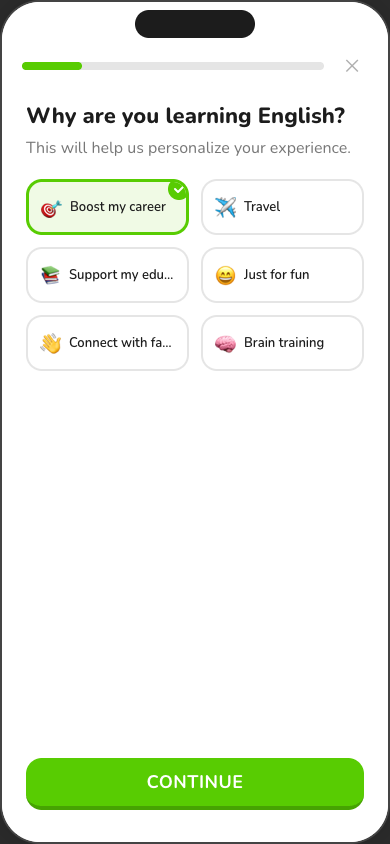
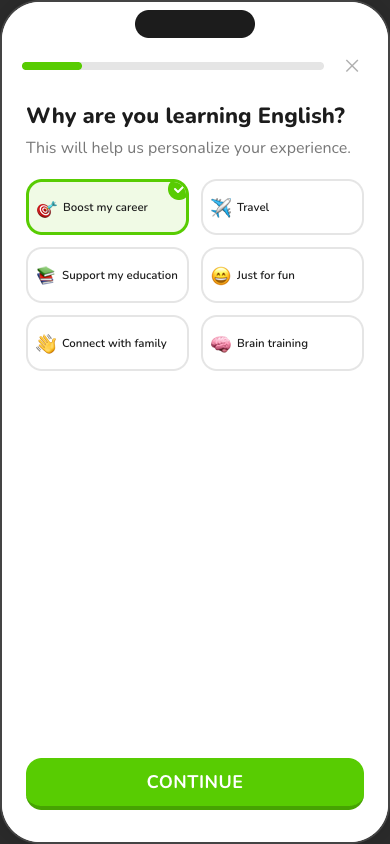
feat: dynamic mission paths + lock Screen 1
- Screen 1 locked to "Boost my career" (no re-selection)
- Removed Travel from Screen 2 (career-only missions)
- Screens 4-6 dynamically update based on Screen 2 mission selection
- Screen 4 day count reflects Screen 3 date picker
- 3 complete mission paths: Job Interview, Workplace Conversation, Corporate Communication
- Updated screenshots

diff --git a/mission_mode_prototype.html b/mission_mode_prototype.html
@@ -174,12 +174,12 @@ body{background:#2D2D2D;display:flex;align-items:center;justify-content:center;f
     <div class="ttl">Why are you learning English?</div>
     <div class="sub">This will help us personalize your experience.</div>
     <div class="g2" id="g1">
-      <div class="card sel" data-g="g1"><span class="chk"><svg viewBox="0 0 12 12"><path d="M2 6l3 3 5-5" stroke="#FFF" stroke-width="2" fill="none" stroke-linecap="round" stroke-linejoin="round"/></svg></span><span class="emo">🎯</span><span class="lbl">Boost my career</span></div>
-      <div class="card" data-g="g1"><span class="chk"><svg viewBox="0 0 12 12"><path d="M2 6l3 3 5-5" stroke="#FFF" stroke-width="2" fill="none" stroke-linecap="round" stroke-linejoin="round"/></svg></span><span class="emo">✈</span><span class="lbl">Travel</span></div>
-      <div class="card" data-g="g1"><span class="chk"><svg viewBox="0 0 12 12"><path d="M2 6l3 3 5-5" stroke="#FFF" stroke-width="2" fill="none" stroke-linecap="round" stroke-linejoin="round"/></svg></span><span class="emo">📚</span><span class="lbl">Support my education</span></div>
-      <div class="card" data-g="g1"><span class="chk"><svg viewBox="0 0 12 12"><path d="M2 6l3 3 5-5" stroke="#FFF" stroke-width="2" fill="none" stroke-linecap="round" stroke-linejoin="round"/></svg></span><span class="emo">😄</span><span class="lbl">Just for fun</span></div>
-      <div class="card" data-g="g1"><span class="chk"><svg viewBox="0 0 12 12"><path d="M2 6l3 3 5-5" stroke="#FFF" stroke-width="2" fill="none" stroke-linecap="round" stroke-linejoin="round"/></svg></span><span class="emo">👋</span><span class="lbl">Connect with family</span></div>
-      <div class="card" data-g="g1"><span class="chk"><svg viewBox="0 0 12 12"><path d="M2 6l3 3 5-5" stroke="#FFF" stroke-width="2" fill="none" stroke-linecap="round" stroke-linejoin="round"/></svg></span><span class="emo">🧠</span><span class="lbl">Brain training</span></div>
+      <div class="card sel" data-g="g1locked"><span class="chk"><svg viewBox="0 0 12 12"><path d="M2 6l3 3 5-5" stroke="#FFF" stroke-width="2" fill="none" stroke-linecap="round" stroke-linejoin="round"/></svg></span><span class="emo">🎯</span><span class="lbl">Boost my career</span></div>
+      <div class="card" data-g="g1locked"><span class="chk"><svg viewBox="0 0 12 12"><path d="M2 6l3 3 5-5" stroke="#FFF" stroke-width="2" fill="none" stroke-linecap="round" stroke-linejoin="round"/></svg></span><span class="emo">✈</span><span class="lbl">Travel</span></div>
+      <div class="card" data-g="g1locked"><span class="chk"><svg viewBox="0 0 12 12"><path d="M2 6l3 3 5-5" stroke="#FFF" stroke-width="2" fill="none" stroke-linecap="round" stroke-linejoin="round"/></svg></span><span class="emo">📚</span><span class="lbl">Support my education</span></div>
+      <div class="card" data-g="g1locked"><span class="chk"><svg viewBox="0 0 12 12"><path d="M2 6l3 3 5-5" stroke="#FFF" stroke-width="2" fill="none" stroke-linecap="round" stroke-linejoin="round"/></svg></span><span class="emo">😄</span><span class="lbl">Just for fun</span></div>
+      <div class="card" data-g="g1locked"><span class="chk"><svg viewBox="0 0 12 12"><path d="M2 6l3 3 5-5" stroke="#FFF" stroke-width="2" fill="none" stroke-linecap="round" stroke-linejoin="round"/></svg></span><span class="emo">👋</span><span class="lbl">Connect with family</span></div>
+      <div class="card" data-g="g1locked"><span class="chk"><svg viewBox="0 0 12 12"><path d="M2 6l3 3 5-5" stroke="#FFF" stroke-width="2" fill="none" stroke-linecap="round" stroke-linejoin="round"/></svg></span><span class="emo">🧠</span><span class="lbl">Brain training</span></div>
     </div>
   </div>
   <div class="barea"><button class="btn" onclick="nav(2)">CONTINUE</button></div>
@@ -200,7 +200,6 @@ body{background:#2D2D2D;display:flex;align-items:center;justify-content:center;f
       <div class="card" data-g="g2" data-v="interview"><span class="chk"><svg viewBox="0 0 12 12"><path d="M2 6l3 3 5-5" stroke="#FFF" stroke-width="2" fill="none" stroke-linecap="round" stroke-linejoin="round"/></svg></span><span class="cico">💼</span><div class="ctw"><div class="ctt">Job Interview</div><div class="ctd">Build speaking confidence and professional English</div></div></div>
       <div class="card" data-g="g2" data-v="workplace"><span class="chk"><svg viewBox="0 0 12 12"><path d="M2 6l3 3 5-5" stroke="#FFF" stroke-width="2" fill="none" stroke-linecap="round" stroke-linejoin="round"/></svg></span><span class="cico">💬</span><div class="ctw"><div class="ctt">Workplace Conversation</div><div class="ctd">Speak confidently in meetings and client calls</div></div></div>
       <div class="card" data-g="g2" data-v="corporate"><span class="chk"><svg viewBox="0 0 12 12"><path d="M2 6l3 3 5-5" stroke="#FFF" stroke-width="2" fill="none" stroke-linecap="round" stroke-linejoin="round"/></svg></span><span class="cico">✉</span><div class="ctw"><div class="ctt">Corporate Communication</div><div class="ctd">Emails, meetings, and professional writing</div></div></div>
-      <div class="card" data-g="g2" data-v="travel"><span class="chk"><svg viewBox="0 0 12 12"><path d="M2 6l3 3 5-5" stroke="#FFF" stroke-width="2" fill="none" stroke-linecap="round" stroke-linejoin="round"/></svg></span><span class="cico">✈</span><div class="ctw"><div class="ctt">Travel</div><div class="ctd">Navigate new places with confidence</div></div></div>
     </div>
   </div>
   <div class="barea"><button class="btn off" id="s2btn" onclick="s2go()">CONTINUE</button></div>
@@ -231,23 +230,23 @@ body{background:#2D2D2D;display:flex;align-items:center;justify-content:center;f
 <div class="scr s4" id="s4">
   <div class="sbar"><span>9:41</span><span style="font-size:12px;font-weight:400">🔋</span></div>
   <div class="mhero">
-    <div class="mhl">JOB INTERVIEW MISSION</div>
-    <div class="mhd">21 DAYS</div>
+    <div class="mhl" id="d4label">JOB INTERVIEW MISSION</div>
+    <div class="mhd" id="d4days">21 DAYS</div>
     <div class="mhs">Until your mission deadline</div>
     <div class="mhp"><div class="mhpf"></div></div>
     <div class="mhpc">4% mission-ready</div>
   </div>
   <div class="slbl">TODAY'S FOCUS</div>
   <div class="fcard" onclick="nav(5)">
-    <span class="fico">🎙</span>
-    <div class="ftxt"><div class="fttl">Speaking Confidence</div><div class="fdsc">Introduce yourself clearly and confidently</div><div class="fmet">3 exercises · 12 min</div></div>
+    <span class="fico" id="d4fIcon">🎙</span>
+    <div class="ftxt"><div class="fttl" id="d4fTitle">Speaking Confidence</div><div class="fdsc" id="d4fDesc">Introduce yourself clearly and confidently</div><div class="fmet">3 exercises · 12 min</div></div>
     <button class="fstart" onclick="event.stopPropagation();nav(5)">START</button>
   </div>
   <div class="slbl">YOUR MISSION PATH</div>
-  <div class="equeue">
-    <div class="erow"><div class="edot" style="background:#1CB0F6"></div><span style="color:#1C1C1C;font-weight:600">🔵 Speaking: Tell Me About Yourself</span></div>
-    <div class="erow"><div class="edot" style="background:#AFAFAF"></div><span style="color:#777">📝 Vocabulary: Interview Words</span></div>
-    <div class="erow" style="border-bottom:none"><div class="edot" style="background:#E5E5E5"></div><span style="color:#CCC">🔒 Listening: Understand the Question</span></div>
+  <div class="equeue" id="d4queue">
+    <div class="erow"><div class="edot" style="background:#1CB0F6"></div><span style="color:#1C1C1C;font-weight:600" id="d4e1">🔵 Speaking: Tell Me About Yourself</span></div>
+    <div class="erow"><div class="edot" style="background:#AFAFAF"></div><span style="color:#777" id="d4e2">📝 Vocabulary: Interview Words</span></div>
+    <div class="erow" style="border-bottom:none"><div class="edot" style="background:#E5E5E5"></div><span style="color:#CCC" id="d4e3">🔒 Listening: Understand the Question</span></div>
   </div>
   <div class="bnav">
     <div class="nit act"><span class="ni">🏠</span>Home</div>
@@ -268,8 +267,8 @@ body{background:#2D2D2D;display:flex;align-items:center;justify-content:center;f
   </div>
   <div class="cnt" style="padding-top:4px">
     <div class="etlbl">SENTENCE ASSEMBLY</div>
-    <div class="ettl">How would you answer this interview question?</div>
-    <div class="icard"><div class="icl">💼 <em>Interviewer asks:</em></div><div class="icq">"Tell me about yourself."</div></div>
+    <div class="ettl" id="d5title">How would you answer this interview question?</div>
+    <div class="icard"><div class="icl" id="d5prompt">💼 <em>Interviewer asks:</em></div><div class="icq" id="d5question">"Tell me about yourself."</div></div>
     <div class="aarea" id="aa">
       <span class="wc">I</span><span class="wc">am</span><span class="wc">currently</span><span class="wc">working</span><span class="wc">as</span><span class="wc">a</span><span class="wc">manager</span><span class="wc">where</span><span class="wc">I</span><span class="wc">lead</span><span class="wc">a</span><span class="wc">team</span>
     </div>
@@ -301,11 +300,11 @@ body{background:#2D2D2D;display:flex;align-items:center;justify-content:center;f
       <svg viewBox="0 0 80 80"><circle class="rbg" cx="40" cy="40" r="36"/><circle class="rfill" id="rf" cx="40" cy="40" r="36"/></svg>
       <div class="rlbl">4%</div>
     </div>
-    <div class="strow"><span>🎙 3 speaking</span><span>⏱ 12 min</span><span>🔥 1 day streak</span></div>
+    <div class="strow"><span id="d6stat">🎙 3 speaking</span><span>⏱ 12 min</span><span>🔥 1 day streak</span></div>
   </div>
   <div class="tcard">
     <div class="tclbl">UP NEXT AFTER YOUR MISSION</div>
-    <div class="tccnt"><span class="tcico">🤝</span><div class="tctxt"><div class="tcttl">Meetings & Presentations</div><div class="tcdsc">Speak confidently in workplace meetings</div></div><span class="lpill">LOCKED</span></div>
+    <div class="tccnt"><span class="tcico" id="d6tIcon">🤝</span><div class="tctxt"><div class="tcttl" id="d6tTitle">Meetings & Presentations</div><div class="tcdsc" id="d6tDesc">Speak confidently in workplace meetings</div></div><span class="lpill">LOCKED</span></div>
   </div>
   <div class="barea"><button class="btn" onclick="showEnd()">CONTINUE TOMORROW</button></div>
 </div>
@@ -327,6 +326,66 @@ body{background:#2D2D2D;display:flex;align-items:center;justify-content:center;f
 <script>
 let cur = 1, s2sel = null, done = false, busy = false, ftm = null, days = 21;
 const SCREENS = {1:'s1',2:'s2',3:'s3',4:'s4',5:'s5',6:'s6'};
+
+const MISSIONS = {
+  interview: {
+    label: 'JOB INTERVIEW MISSION',
+    focusIcon: '🎙', focusTitle: 'Speaking Confidence', focusDesc: 'Introduce yourself clearly and confidently',
+    e1: '🔵 Speaking: Tell Me About Yourself', e2: '📝 Vocabulary: Interview Words', e3: '🔒 Listening: Understand the Question',
+    exTitle: 'How would you answer this interview question?',
+    promptIcon: '💼', promptLabel: 'Interviewer asks:', promptQ: '"Tell me about yourself."',
+    words: ['I','am','currently','working','as','a','manager','where','I','lead','a','team'],
+    stat: '🎙 3 speaking', tIcon: '🤝', tTitle: 'Meetings & Presentations', tDesc: 'Speak confidently in workplace meetings'
+  },
+  workplace: {
+    label: 'WORKPLACE CONVERSATION MISSION',
+    focusIcon: '🎙', focusTitle: 'Meeting Confidence', focusDesc: 'Join and contribute to workplace discussions',
+    e1: '🔵 Speaking: Join a Meeting', e2: '📝 Vocabulary: Meeting Phrases', e3: '🔒 Listening: Follow a Discussion',
+    exTitle: 'How would you respond in this meeting?',
+    promptIcon: '💬', promptLabel: 'Colleague asks:', promptQ: '"Can you walk us through the project?"',
+    words: ['I','would','like','to','walk','you','through','our','progress','on','this','project'],
+    stat: '🎙 3 speaking', tIcon: '📧', tTitle: 'Email & Reports', tDesc: 'Write clear professional communications'
+  },
+  corporate: {
+    label: 'CORPORATE COMMUNICATION MISSION',
+    focusIcon: '✍', focusTitle: 'Writing Clarity', focusDesc: 'Draft clear professional messages',
+    e1: '🔵 Writing: Draft a Status Update', e2: '📝 Vocabulary: Business Email Words', e3: '🔒 Reading: Understand a Memo',
+    exTitle: 'How would you write this message?',
+    promptIcon: '✉', promptLabel: 'Manager asks:', promptQ: '"Send a project update to the team."',
+    words: ['I','am','writing','to','provide','a','brief','update','on','this','project'],
+    stat: '✍ 3 writing', tIcon: '🎤', tTitle: 'Client Presentations', tDesc: 'Present ideas confidently to clients'
+  }
+};
+
+function updScreens() {
+  const m = MISSIONS[s2sel] || MISSIONS.interview;
+  // S4
+  document.getElementById('d4label').textContent = m.label;
+  document.getElementById('d4days').textContent = days + ' DAYS';
+  document.getElementById('d4fIcon').textContent = m.focusIcon;
+  document.getElementById('d4fTitle').textContent = m.focusTitle;
+  document.getElementById('d4fDesc').textContent = m.focusDesc;
+  document.getElementById('d4e1').textContent = m.e1;
+  document.getElementById('d4e2').textContent = m.e2;
+  document.getElementById('d4e3').textContent = m.e3;
+  // S5
+  document.getElementById('d5title').textContent = m.exTitle;
+  document.getElementById('d5prompt').innerHTML = m.promptIcon + ' <em>' + m.promptLabel + '</em>';
+  document.getElementById('d5question').textContent = m.promptQ;
+  const aa = document.getElementById('aa');
+  const wb = document.querySelector('.wbank');
+  aa.innerHTML = m.words.map(w => '<span class="wc">' + w + '</span>').join('');
+  wb.innerHTML = m.words.map(w => '<span class="wc">' + w + '</span>').join('');
+  // Reset assembly styles
+  aa.style.background = '';
+  aa.style.borderColor = '';
+  aa.style.borderStyle = '';
+  // S6
+  document.getElementById('d6stat').textContent = m.stat;
+  document.getElementById('d6tIcon').textContent = m.tIcon;
+  document.getElementById('d6tTitle').textContent = m.tTitle;
+  document.getElementById('d6tDesc').textContent = m.tDesc;
+}
 
 function nav(to) {
   if (busy || to === cur) return;
@@ -367,6 +426,9 @@ function nav(to) {
 
   cur = to;
 
+  // Update dynamic content when entering screens 4-6
+  if (to >= 4) updScreens();
+
   // Screen 6: animate ring
   if (to === 6) {
     setTimeout(() => document.getElementById('rf').classList.add('anim'), 100);
@@ -385,7 +447,7 @@ document.addEventListener('click', function(e) {
   const c = e.target.closest('.card');
   if (!c || busy) return;
   const g = c.dataset.g;
-  if (!g) return;
+  if (!g || g === 'g1locked') return; // Screen 1 locked
   const container = document.getElementById(g);
   if (!container) return;
   container.querySelectorAll('.card').forEach(x => x.classList.remove('sel'));

diff --git a/mission_mode_prototype_embed.html b/mission_mode_prototype_embed.html
@@ -174,12 +174,12 @@ body{background:#2D2D2D;display:flex;align-items:center;justify-content:center;f
     <div class="ttl">Why are you learning English?</div>
     <div class="sub">This will help us personalize your experience.</div>
     <div class="g2" id="g1">
-      <div class="card sel" data-g="g1"><span class="chk"><svg viewBox="0 0 12 12"><path d="M2 6l3 3 5-5" stroke="#FFF" stroke-width="2" fill="none" stroke-linecap="round" stroke-linejoin="round"/></svg></span><span class="emo">🎯</span><span class="lbl">Boost my career</span></div>
-      <div class="card" data-g="g1"><span class="chk"><svg viewBox="0 0 12 12"><path d="M2 6l3 3 5-5" stroke="#FFF" stroke-width="2" fill="none" stroke-linecap="round" stroke-linejoin="round"/></svg></span><span class="emo">✈</span><span class="lbl">Travel</span></div>
-      <div class="card" data-g="g1"><span class="chk"><svg viewBox="0 0 12 12"><path d="M2 6l3 3 5-5" stroke="#FFF" stroke-width="2" fill="none" stroke-linecap="round" stroke-linejoin="round"/></svg></span><span class="emo">📚</span><span class="lbl">Support my education</span></div>
-      <div class="card" data-g="g1"><span class="chk"><svg viewBox="0 0 12 12"><path d="M2 6l3 3 5-5" stroke="#FFF" stroke-width="2" fill="none" stroke-linecap="round" stroke-linejoin="round"/></svg></span><span class="emo">😄</span><span class="lbl">Just for fun</span></div>
-      <div class="card" data-g="g1"><span class="chk"><svg viewBox="0 0 12 12"><path d="M2 6l3 3 5-5" stroke="#FFF" stroke-width="2" fill="none" stroke-linecap="round" stroke-linejoin="round"/></svg></span><span class="emo">👋</span><span class="lbl">Connect with family</span></div>
-      <div class="card" data-g="g1"><span class="chk"><svg viewBox="0 0 12 12"><path d="M2 6l3 3 5-5" stroke="#FFF" stroke-width="2" fill="none" stroke-linecap="round" stroke-linejoin="round"/></svg></span><span class="emo">🧠</span><span class="lbl">Brain training</span></div>
+      <div class="card sel" data-g="g1locked"><span class="chk"><svg viewBox="0 0 12 12"><path d="M2 6l3 3 5-5" stroke="#FFF" stroke-width="2" fill="none" stroke-linecap="round" stroke-linejoin="round"/></svg></span><span class="emo">🎯</span><span class="lbl">Boost my career</span></div>
+      <div class="card" data-g="g1locked"><span class="chk"><svg viewBox="0 0 12 12"><path d="M2 6l3 3 5-5" stroke="#FFF" stroke-width="2" fill="none" stroke-linecap="round" stroke-linejoin="round"/></svg></span><span class="emo">✈</span><span class="lbl">Travel</span></div>
+      <div class="card" data-g="g1locked"><span class="chk"><svg viewBox="0 0 12 12"><path d="M2 6l3 3 5-5" stroke="#FFF" stroke-width="2" fill="none" stroke-linecap="round" stroke-linejoin="round"/></svg></span><span class="emo">📚</span><span class="lbl">Support my education</span></div>
+      <div class="card" data-g="g1locked"><span class="chk"><svg viewBox="0 0 12 12"><path d="M2 6l3 3 5-5" stroke="#FFF" stroke-width="2" fill="none" stroke-linecap="round" stroke-linejoin="round"/></svg></span><span class="emo">😄</span><span class="lbl">Just for fun</span></div>
+      <div class="card" data-g="g1locked"><span class="chk"><svg viewBox="0 0 12 12"><path d="M2 6l3 3 5-5" stroke="#FFF" stroke-width="2" fill="none" stroke-linecap="round" stroke-linejoin="round"/></svg></span><span class="emo">👋</span><span class="lbl">Connect with family</span></div>
+      <div class="card" data-g="g1locked"><span class="chk"><svg viewBox="0 0 12 12"><path d="M2 6l3 3 5-5" stroke="#FFF" stroke-width="2" fill="none" stroke-linecap="round" stroke-linejoin="round"/></svg></span><span class="emo">🧠</span><span class="lbl">Brain training</span></div>
     </div>
   </div>
   <div class="barea"><button class="btn" onclick="nav(2)">CONTINUE</button></div>
@@ -200,7 +200,6 @@ body{background:#2D2D2D;display:flex;align-items:center;justify-content:center;f
       <div class="card" data-g="g2" data-v="interview"><span class="chk"><svg viewBox="0 0 12 12"><path d="M2 6l3 3 5-5" stroke="#FFF" stroke-width="2" fill="none" stroke-linecap="round" stroke-linejoin="round"/></svg></span><span class="cico">💼</span><div class="ctw"><div class="ctt">Job Interview</div><div class="ctd">Build speaking confidence and professional English</div></div></div>
       <div class="card" data-g="g2" data-v="workplace"><span class="chk"><svg viewBox="0 0 12 12"><path d="M2 6l3 3 5-5" stroke="#FFF" stroke-width="2" fill="none" stroke-linecap="round" stroke-linejoin="round"/></svg></span><span class="cico">💬</span><div class="ctw"><div class="ctt">Workplace Conversation</div><div class="ctd">Speak confidently in meetings and client calls</div></div></div>
       <div class="card" data-g="g2" data-v="corporate"><span class="chk"><svg viewBox="0 0 12 12"><path d="M2 6l3 3 5-5" stroke="#FFF" stroke-width="2" fill="none" stroke-linecap="round" stroke-linejoin="round"/></svg></span><span class="cico">✉</span><div class="ctw"><div class="ctt">Corporate Communication</div><div class="ctd">Emails, meetings, and professional writing</div></div></div>
-      <div class="card" data-g="g2" data-v="travel"><span class="chk"><svg viewBox="0 0 12 12"><path d="M2 6l3 3 5-5" stroke="#FFF" stroke-width="2" fill="none" stroke-linecap="round" stroke-linejoin="round"/></svg></span><span class="cico">✈</span><div class="ctw"><div class="ctt">Travel</div><div class="ctd">Navigate new places with confidence</div></div></div>
     </div>
   </div>
   <div class="barea"><button class="btn off" id="s2btn" onclick="s2go()">CONTINUE</button></div>
@@ -231,23 +230,23 @@ body{background:#2D2D2D;display:flex;align-items:center;justify-content:center;f
 <div class="scr s4" id="s4">
   <div class="sbar"><span>9:41</span><span style="font-size:12px;font-weight:400">🔋</span></div>
   <div class="mhero">
-    <div class="mhl">JOB INTERVIEW MISSION</div>
-    <div class="mhd">21 DAYS</div>
+    <div class="mhl" id="d4label">JOB INTERVIEW MISSION</div>
+    <div class="mhd" id="d4days">21 DAYS</div>
     <div class="mhs">Until your mission deadline</div>
     <div class="mhp"><div class="mhpf"></div></div>
     <div class="mhpc">4% mission-ready</div>
   </div>
   <div class="slbl">TODAY'S FOCUS</div>
   <div class="fcard" onclick="nav(5)">
-    <span class="fico">🎙</span>
-    <div class="ftxt"><div class="fttl">Speaking Confidence</div><div class="fdsc">Introduce yourself clearly and confidently</div><div class="fmet">3 exercises · 12 min</div></div>
+    <span class="fico" id="d4fIcon">🎙</span>
+    <div class="ftxt"><div class="fttl" id="d4fTitle">Speaking Confidence</div><div class="fdsc" id="d4fDesc">Introduce yourself clearly and confidently</div><div class="fmet">3 exercises · 12 min</div></div>
     <button class="fstart" onclick="event.stopPropagation();nav(5)">START</button>
   </div>
   <div class="slbl">YOUR MISSION PATH</div>
-  <div class="equeue">
-    <div class="erow"><div class="edot" style="background:#1CB0F6"></div><span style="color:#1C1C1C;font-weight:600">🔵 Speaking: Tell Me About Yourself</span></div>
-    <div class="erow"><div class="edot" style="background:#AFAFAF"></div><span style="color:#777">📝 Vocabulary: Interview Words</span></div>
-    <div class="erow" style="border-bottom:none"><div class="edot" style="background:#E5E5E5"></div><span style="color:#CCC">🔒 Listening: Understand the Question</span></div>
+  <div class="equeue" id="d4queue">
+    <div class="erow"><div class="edot" style="background:#1CB0F6"></div><span style="color:#1C1C1C;font-weight:600" id="d4e1">🔵 Speaking: Tell Me About Yourself</span></div>
+    <div class="erow"><div class="edot" style="background:#AFAFAF"></div><span style="color:#777" id="d4e2">📝 Vocabulary: Interview Words</span></div>
+    <div class="erow" style="border-bottom:none"><div class="edot" style="background:#E5E5E5"></div><span style="color:#CCC" id="d4e3">🔒 Listening: Understand the Question</span></div>
   </div>
   <div class="bnav">
     <div class="nit act"><span class="ni">🏠</span>Home</div>
@@ -268,8 +267,8 @@ body{background:#2D2D2D;display:flex;align-items:center;justify-content:center;f
   </div>
   <div class="cnt" style="padding-top:4px">
     <div class="etlbl">SENTENCE ASSEMBLY</div>
-    <div class="ettl">How would you answer this interview question?</div>
-    <div class="icard"><div class="icl">💼 <em>Interviewer asks:</em></div><div class="icq">"Tell me about yourself."</div></div>
+    <div class="ettl" id="d5title">How would you answer this interview question?</div>
+    <div class="icard"><div class="icl" id="d5prompt">💼 <em>Interviewer asks:</em></div><div class="icq" id="d5question">"Tell me about yourself."</div></div>
     <div class="aarea" id="aa">
       <span class="wc">I</span><span class="wc">am</span><span class="wc">currently</span><span class="wc">working</span><span class="wc">as</span><span class="wc">a</span><span class="wc">manager</span><span class="wc">where</span><span class="wc">I</span><span class="wc">lead</span><span class="wc">a</span><span class="wc">team</span>
     </div>
@@ -301,11 +300,11 @@ body{background:#2D2D2D;display:flex;align-items:center;justify-content:center;f
       <svg viewBox="0 0 80 80"><circle class="rbg" cx="40" cy="40" r="36"/><circle class="rfill" id="rf" cx="40" cy="40" r="36"/></svg>
       <div class="rlbl">4%</div>
     </div>
-    <div class="strow"><span>🎙 3 speaking</span><span>⏱ 12 min</span><span>🔥 1 day streak</span></div>
+    <div class="strow"><span id="d6stat">🎙 3 speaking</span><span>⏱ 12 min</span><span>🔥 1 day streak</span></div>
   </div>
   <div class="tcard">
     <div class="tclbl">UP NEXT AFTER YOUR MISSION</div>
-    <div class="tccnt"><span class="tcico">🤝</span><div class="tctxt"><div class="tcttl">Meetings & Presentations</div><div class="tcdsc">Speak confidently in workplace meetings</div></div><span class="lpill">LOCKED</span></div>
+    <div class="tccnt"><span class="tcico" id="d6tIcon">🤝</span><div class="tctxt"><div class="tcttl" id="d6tTitle">Meetings & Presentations</div><div class="tcdsc" id="d6tDesc">Speak confidently in workplace meetings</div></div><span class="lpill">LOCKED</span></div>
   </div>
   <div class="barea"><button class="btn" onclick="showEnd()">CONTINUE TOMORROW</button></div>
 </div>
@@ -327,6 +326,66 @@ body{background:#2D2D2D;display:flex;align-items:center;justify-content:center;f
 <script>
 let cur = 1, s2sel = null, done = false, busy = false, ftm = null, days = 21;
 const SCREENS = {1:'s1',2:'s2',3:'s3',4:'s4',5:'s5',6:'s6'};
+
+const MISSIONS = {
+  interview: {
+    label: 'JOB INTERVIEW MISSION',
+    focusIcon: '🎙', focusTitle: 'Speaking Confidence', focusDesc: 'Introduce yourself clearly and confidently',
+    e1: '🔵 Speaking: Tell Me About Yourself', e2: '📝 Vocabulary: Interview Words', e3: '🔒 Listening: Understand the Question',
+    exTitle: 'How would you answer this interview question?',
+    promptIcon: '💼', promptLabel: 'Interviewer asks:', promptQ: '"Tell me about yourself."',
+    words: ['I','am','currently','working','as','a','manager','where','I','lead','a','team'],
+    stat: '🎙 3 speaking', tIcon: '🤝', tTitle: 'Meetings & Presentations', tDesc: 'Speak confidently in workplace meetings'
+  },
+  workplace: {
+    label: 'WORKPLACE CONVERSATION MISSION',
+    focusIcon: '🎙', focusTitle: 'Meeting Confidence', focusDesc: 'Join and contribute to workplace discussions',
+    e1: '🔵 Speaking: Join a Meeting', e2: '📝 Vocabulary: Meeting Phrases', e3: '🔒 Listening: Follow a Discussion',
+    exTitle: 'How would you respond in this meeting?',
+    promptIcon: '💬', promptLabel: 'Colleague asks:', promptQ: '"Can you walk us through the project?"',
+    words: ['I','would','like','to','walk','you','through','our','progress','on','this','project'],
+    stat: '🎙 3 speaking', tIcon: '📧', tTitle: 'Email & Reports', tDesc: 'Write clear professional communications'
+  },
+  corporate: {
+    label: 'CORPORATE COMMUNICATION MISSION',
+    focusIcon: '✍', focusTitle: 'Writing Clarity', focusDesc: 'Draft clear professional messages',
+    e1: '🔵 Writing: Draft a Status Update', e2: '📝 Vocabulary: Business Email Words', e3: '🔒 Reading: Understand a Memo',
+    exTitle: 'How would you write this message?',
+    promptIcon: '✉', promptLabel: 'Manager asks:', promptQ: '"Send a project update to the team."',
+    words: ['I','am','writing','to','provide','a','brief','update','on','this','project'],
+    stat: '✍ 3 writing', tIcon: '🎤', tTitle: 'Client Presentations', tDesc: 'Present ideas confidently to clients'
+  }
+};
+
+function updScreens() {
+  const m = MISSIONS[s2sel] || MISSIONS.interview;
+  // S4
+  document.getElementById('d4label').textContent = m.label;
+  document.getElementById('d4days').textContent = days + ' DAYS';
+  document.getElementById('d4fIcon').textContent = m.focusIcon;
+  document.getElementById('d4fTitle').textContent = m.focusTitle;
+  document.getElementById('d4fDesc').textContent = m.focusDesc;
+  document.getElementById('d4e1').textContent = m.e1;
+  document.getElementById('d4e2').textContent = m.e2;
+  document.getElementById('d4e3').textContent = m.e3;
+  // S5
+  document.getElementById('d5title').textContent = m.exTitle;
+  document.getElementById('d5prompt').innerHTML = m.promptIcon + ' <em>' + m.promptLabel + '</em>';
+  document.getElementById('d5question').textContent = m.promptQ;
+  const aa = document.getElementById('aa');
+  const wb = document.querySelector('.wbank');
+  aa.innerHTML = m.words.map(w => '<span class="wc">' + w + '</span>').join('');
+  wb.innerHTML = m.words.map(w => '<span class="wc">' + w + '</span>').join('');
+  // Reset assembly styles
+  aa.style.background = '';
+  aa.style.borderColor = '';
+  aa.style.borderStyle = '';
+  // S6
+  document.getElementById('d6stat').textContent = m.stat;
+  document.getElementById('d6tIcon').textContent = m.tIcon;
+  document.getElementById('d6tTitle').textContent = m.tTitle;
+  document.getElementById('d6tDesc').textContent = m.tDesc;
+}
 
 function nav(to) {
   if (busy || to === cur) return;
@@ -367,6 +426,9 @@ function nav(to) {
 
   cur = to;
 
+  // Update dynamic content when entering screens 4-6
+  if (to >= 4) updScreens();
+
   // Screen 6: animate ring
   if (to === 6) {
     setTimeout(() => document.getElementById('rf').classList.add('anim'), 100);
@@ -385,7 +447,7 @@ document.addEventListener('click', function(e) {
   const c = e.target.closest('.card');
   if (!c || busy) return;
   const g = c.dataset.g;
-  if (!g) return;
+  if (!g || g === 'g1locked') return; // Screen 1 locked
   const container = document.getElementById(g);
   if (!container) return;
   container.querySelectorAll('.card').forEach(x => x.classList.remove('sel'));
